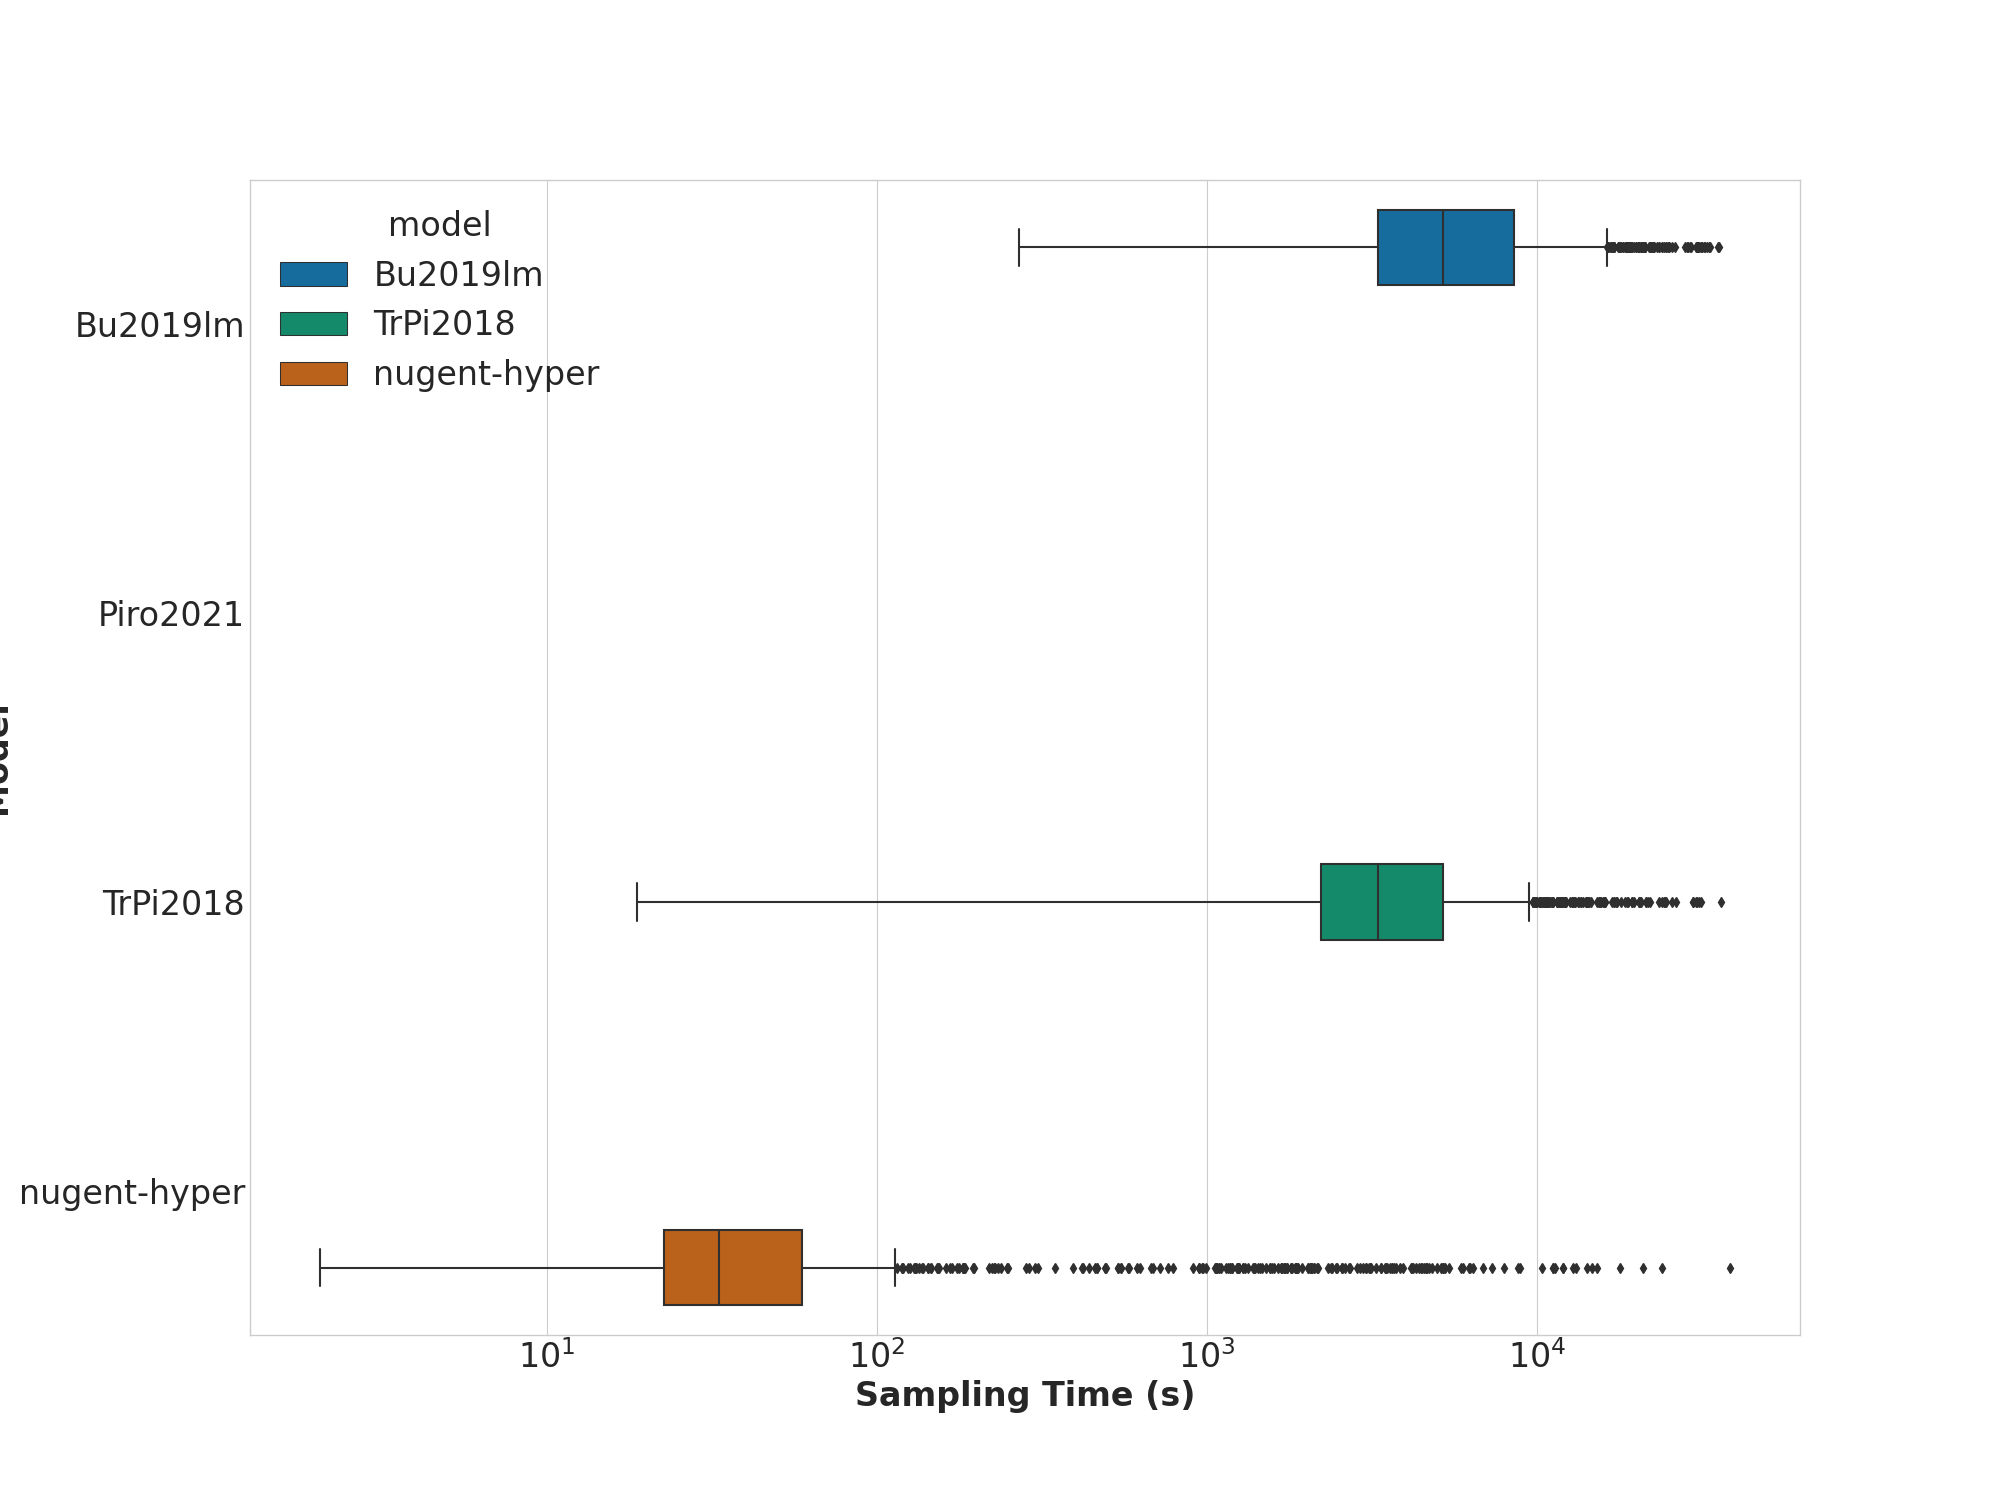
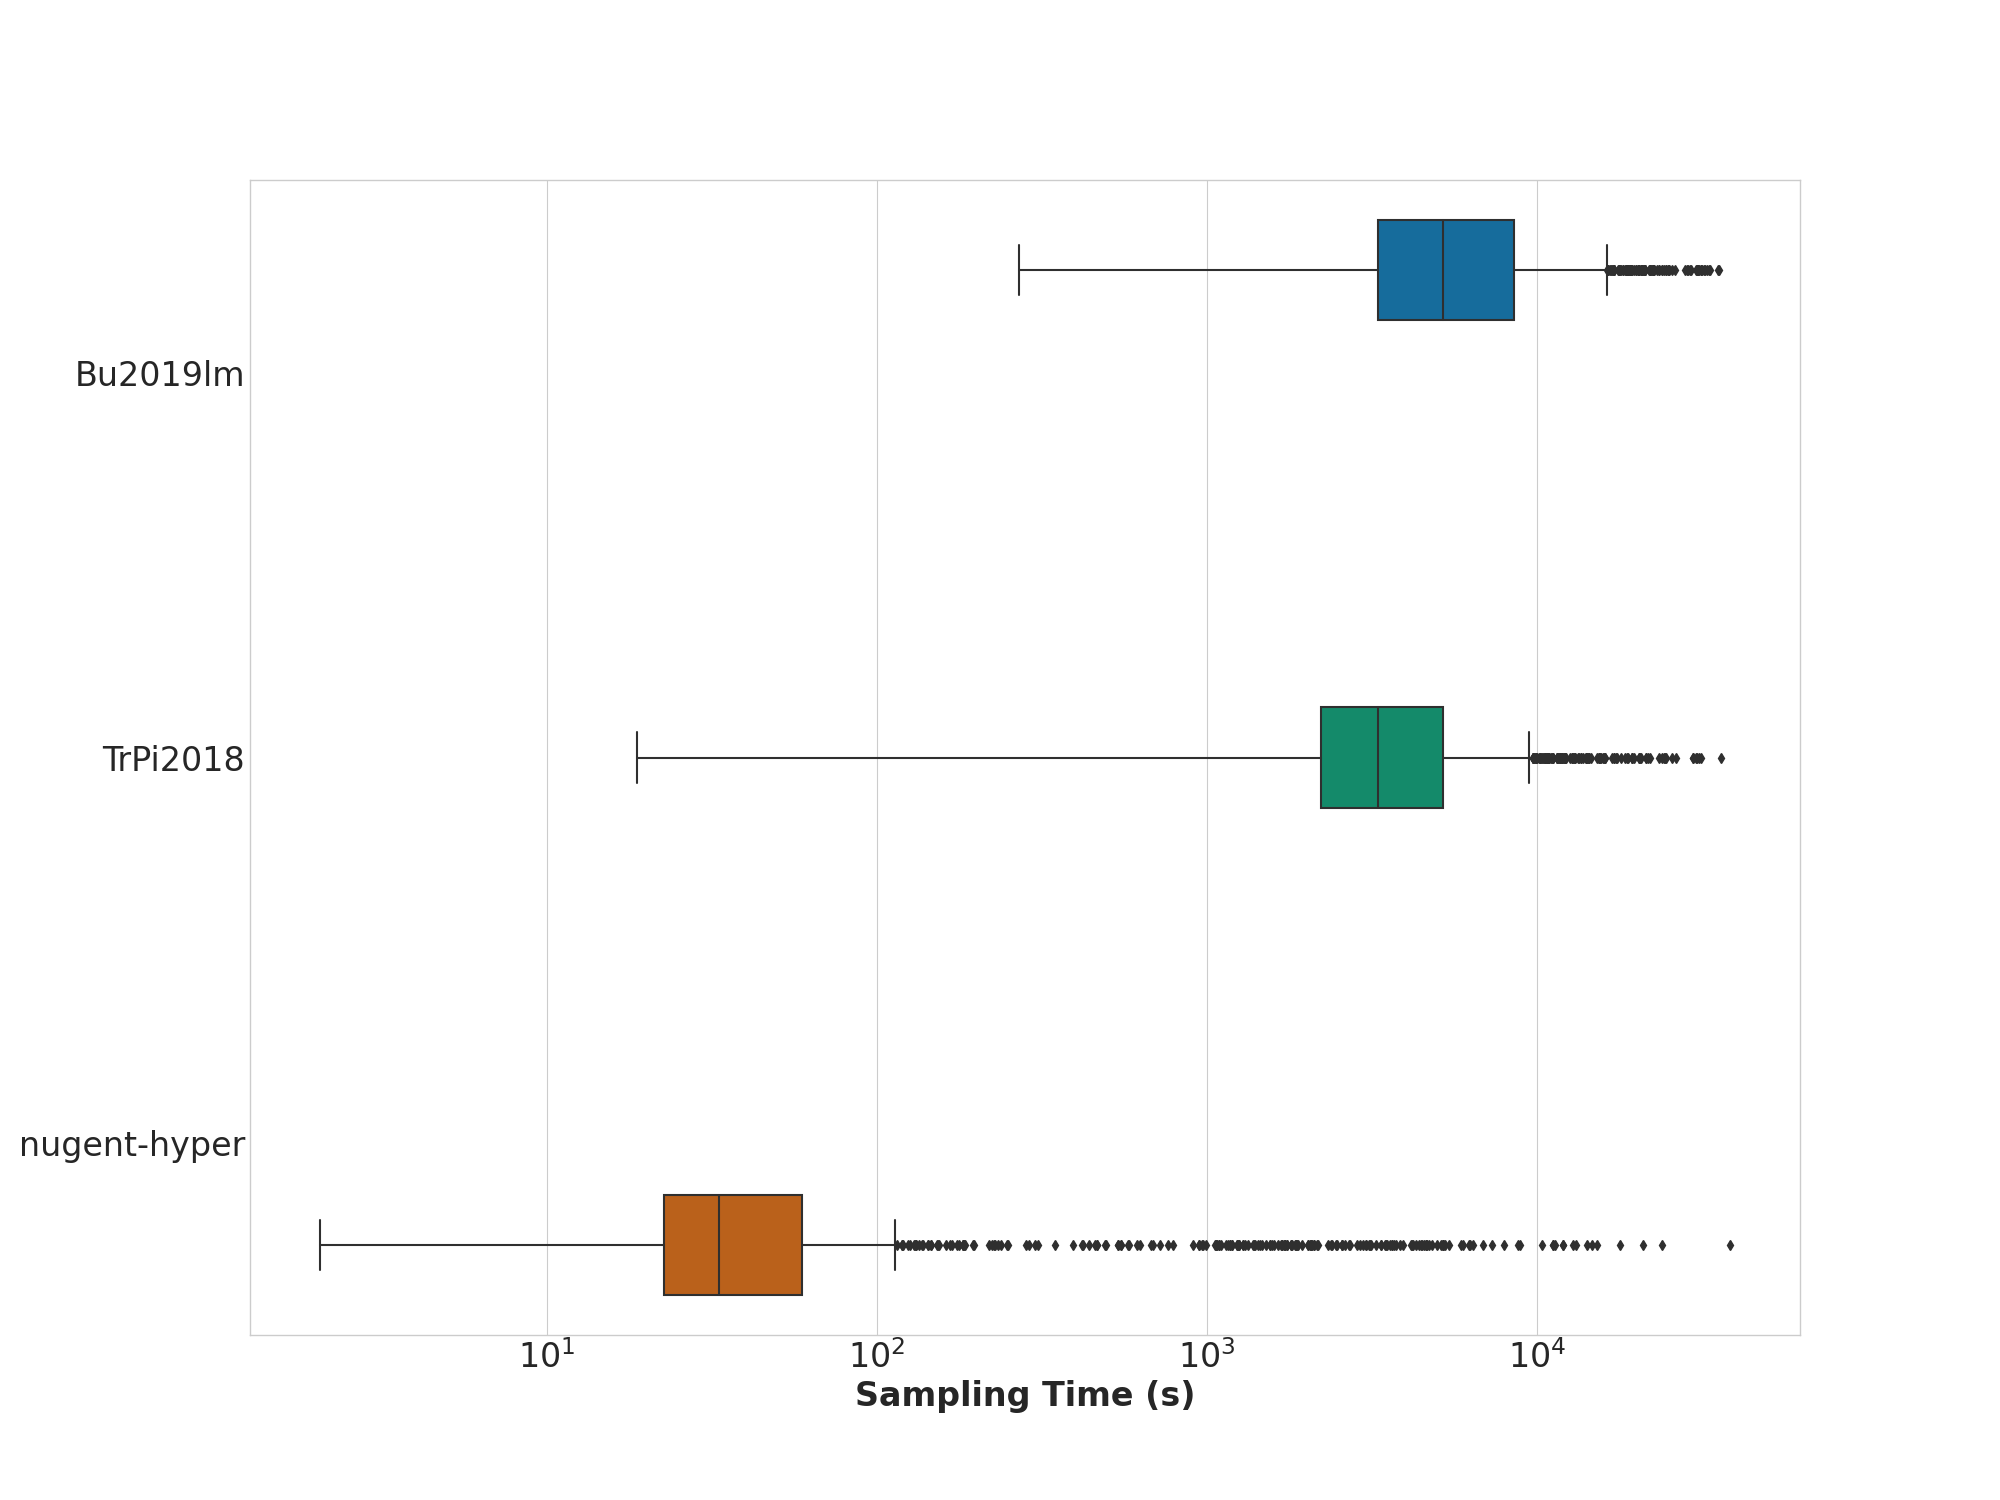
removed Piro from all plots+consistent hues
removed Piro2021 from relevant plots and also adjusted the hues to all be in the same order. Also removed axis label on y axis and legends of box and violin plots since they're fairly redundant with the y labels themselves

diff --git a/stats.py b/stats.py
@@ -328,6 +328,7 @@ def plotCands(df, save=True, outdir=args.outdir, ext='.png'):
     save: boolean to determine whether to save the plot or not
     '''
     startTime = time.time()
+    print('starting candidate plotting') if args.verbose else None
     ## create subdirectory for plots
     subdir = os.path.join(outdir,'candidates')
     if not os.path.exists(subdir):
@@ -341,7 +342,7 @@ def plotCands(df, save=True, outdir=args.outdir, ext='.png'):
     df_cd['numCand'] = [len(cand) for cand in df_cd['cand']]
     #print('df_cd: {}\n'.format(df_cd)) if args.verbose else None
     #[print(cand) for cand in df_cd['numCand']]
-    print('total number of candidates: {}'.format(df_cd['numCand'].sum())) if args.verbose else None
+    #print('total number of candidates: {}'.format(df_cd['numCand'].sum())) if args.verbose else None
     #print(df_cd)
     #df_cdc.to_csv('./df_cdaily.csv')
     ## unique candidates
@@ -349,9 +350,9 @@ def plotCands(df, save=True, outdir=args.outdir, ext='.png'):
     ## unique candidates grouped by day
     df_ud = df_u.groupby(['startDate','stopDate'],as_index=False).agg(tuple).applymap(lambda x: np.array(x))
     df_ud['numCand'] = [len(cand) for cand in df_ud['cand']]
-    print('total number of unique candidates: {}'.format(df_ud['numCand'].sum())) if args.verbose else None
+    #print('total number of unique candidates: {}'.format(df_ud['numCand'].sum())) if args.verbose else None
     
-    print('largest nuber of candidates in a single day: {}'.format(df_cd['numCand'].max())) if args.verbose else None
+    #print('largest nuber of candidates in a single day: {}'.format(df_cd['numCand'].max())) if args.verbose else None
     
     ## plot number of candidates per day
     fig, ax = plotstyle(figsize=(20,15), facecolor='white') 
@@ -362,7 +363,7 @@ def plotCands(df, save=True, outdir=args.outdir, ext='.png'):
     ax.set_xlabel("Date") 
     ax.set_ylabel('Candidates Per Day')
     plt.savefig(plotDir("numDailyCand",outdir=subdir,ext=ext)) if save else None
-    print('completed numDailyCand plot') if args.verbose else None
+    #print('completed numDailyCand plot') if args.verbose else None
     plt.close()
     
      
@@ -373,7 +374,7 @@ def plotCands(df, save=True, outdir=args.outdir, ext='.png'):
     ax.set_xlabel("Candidates Per Day")
     ax.set_ylabel('Count')
     plt.savefig(plotDir("numDailyCandHist",outdir=subdir,ext=ext)) if save else None
-    print('completed numDailyCandHist plot') if args.verbose else None
+    #print('completed numDailyCandHist plot') if args.verbose else None
     plt.close()
     
     #plot 7 day rolling average of candidates per day
@@ -385,7 +386,7 @@ def plotCands(df, save=True, outdir=args.outdir, ext='.png'):
     ax.set_xlabel("Date")
     ax.set_ylabel('Candidates Per Day\n(Rolling Average)') ## needs title
     plt.savefig(plotDir("numDailyCandRolling",outdir=subdir,ext=ext)) if save else None
-    print('completed numDailyCandRolling plot') if args.verbose else None
+    #print('completed numDailyCandRolling plot') if args.verbose else None
     plt.close()
     
     ## plot cumulative number of candidates per day
@@ -396,7 +397,7 @@ def plotCands(df, save=True, outdir=args.outdir, ext='.png'):
     ax.set_xlabel("Date")
     ax.set_ylabel('Candidate Count')
     plt.savefig(plotDir("cumDailyCand",outdir=subdir,ext=ext)) if save else None
-    print('completed cumDailyCand plot') if args.verbose else None
+    #print('completed cumDailyCand plot') if args.verbose else None
     plt.close()
     
     ## plot number of unique candidates
@@ -411,7 +412,7 @@ def plotCands(df, save=True, outdir=args.outdir, ext='.png'):
     ax.set_xlabel("Date")
     ax.set_ylabel('Candidate Count')
     plt.savefig(plotDir("uniqueDailyCand",outdir=subdir,ext=ext)) if save else None
-    print('completed uniqueDailyCand plot') if args.verbose else None
+    #print('completed uniqueDailyCand plot') if args.verbose else None
     plt.close()
     
     
@@ -432,6 +433,7 @@ def plotFits(df, models=args.models, save=True, outdir=args.outdir, ext='.png'):
     save: boolean to determine whether to save the figure or not
     '''
     startTime = time.time()
+    print('starting fit plotting') if args.verbose else None
     ## create subdirectory for plots
     subdir = os.path.join(outdir,'fits')
     if not os.path.exists(subdir):
@@ -480,7 +482,7 @@ def plotFits(df, models=args.models, save=True, outdir=args.outdir, ext='.png'):
         ax.set_title('{}'.format(model))
         ax.legend()
         plt.savefig(plotDir("cumDailyFits_"+model,outdir=subdir,ext=ext)) if save else None
-        print('completed cumDailyFits plot for {} \n'.format(model)) if args.verbose else None
+        #print('completed cumDailyFits plot for {} \n'.format(model)) if args.verbose else None
         plt.close()
     try: ## using a try here because this could totally break if the modelDict has different lengths for each model
         modelDict['Total'] = sum(map(np.array,modelDict.values())).tolist()
@@ -501,7 +503,7 @@ def plotFits(df, models=args.models, save=True, outdir=args.outdir, ext='.png'):
     plt.savefig(plotDir("cumDailyFitsAll",outdir=subdir,ext=ext)) if save else None ## need to make a version that adds a residual plot below to compare models
     ax.set_yscale('log')
     plt.savefig(plotDir("cumDailyFitsAllLog",outdir=subdir,ext=ext)) if save else None
-    print('completed cumDailyFitsAll plot\n') if args.verbose else None
+    #print('completed cumDailyFitsAll plot\n') if args.verbose else None
     plt.close()
     
     ## plot the relative performance of each model against the others
@@ -526,9 +528,9 @@ def plotFits(df, models=args.models, save=True, outdir=args.outdir, ext='.png'):
     ax.set_ylabel('Difference in Fit Count')
     ax.legend()
     plt.savefig(plotDir("cumDailyFitsRelPerf",outdir=subdir,ext=ext)) if save else None
-    print('completed cumDailyFitsRelPerf plot\n') if args.verbose else None
+    #print('completed cumDailyFitsRelPerf plot\n') if args.verbose else None
     plt.close()
-    print('completed cumDailyFits plot for all models \n') if args.verbose else None
+    #print('completed cumDailyFits plot for all models \n') if args.verbose else None
     
     print('completed fit plotting') if args.verbose else None
     print('time to plot candidate fits: {} seconds\n'.format(round(time.time()-startTime,2))) if args.verbose else None
@@ -544,6 +546,7 @@ def plotUnfit(df, models= args.models, save=True, outdir=args.outdir, ext='.png'
     save: boolean to determine whether to save the figure or not
     '''
     startTime = time.time()
+    print('starting unfit plotting') if args.verbose else None
     subdir = os.path.join(outdir,'unfit')
     if not os.path.exists(subdir):
         os.mkdir(subdir)
@@ -727,6 +730,7 @@ def plotSamplingTimes(df, models=args.models, save=True, outdir=args.outdir, ext
     save: boolean to determine whether to save the figure or not
     '''
     startTime = time.time()
+    print('plotting sampling times') if args.verbose else None
     ## create subdirectory for plots
     subdir = os.path.join(outdir,'samplingTimes')
     if not os.path.exists(subdir):
@@ -885,6 +889,7 @@ def plotSamplingTimes(df, models=args.models, save=True, outdir=args.outdir, ext
     plot = sns.ecdfplot(data=df_f, x='sampling_time_total', hue='model', hue_order=models,
                         legend='full',linewidth=4, ax=ax)
     ax.set_xlabel("Sampling Time (s)")
+    
     plt.savefig(plotDir("samplingTimeDistModel",outdir=subdir,ext=ext)) if save else None
     ax.set_xscale('log')
     plt.savefig(plotDir("samplingTimeDistModelLog",outdir=subdir,ext=ext)) if save else None
@@ -896,8 +901,8 @@ def plotSamplingTimes(df, models=args.models, save=True, outdir=args.outdir, ext
                           legend=True, cut=0,
                           ax=ax)
     ax.set_xlabel("Sampling Time (s)")
-    ax.set_ylabel('Model')
-    
+    ax.set_ylabel('')
+    ax.legend([],[], frameon=False)
     #ax.legend()
     #ax.set_xlim(right=35000)## presumes a certain max sampling time
     #ax.set_ylim(bottom=-500)
@@ -913,8 +918,9 @@ def plotSamplingTimes(df, models=args.models, save=True, outdir=args.outdir, ext
                           hue='model', 
                           ax=ax)
     ax.set_xlabel("Sampling Time (s)")
-    ax.set_ylabel('Model')
-    
+    #ax.set_ylabel('Model')
+    ax.set_ylabel('')
+    ax.legend([],[], frameon=False)
     #ax.legend()
     #ax.set_xlim(right=35000)## presumes a certain max sampling time
     #ax.set_ylim(bottom=-500)
@@ -938,6 +944,7 @@ def plotLikelihood(df, models=args.models, save=True, outdir=args.outdir, ext='.
     save: boolean to determine whether to save the figure or not
     '''
     startTime = time.time()
+    print('plotting likelihoods') if args.verbose else None
     ## create subdirectory for plots
     subdir = os.path.join(outdir,'likelihood')
     if not os.path.exists(subdir):
@@ -1119,15 +1126,16 @@ def plotLikelihood(df, models=args.models, save=True, outdir=args.outdir, ext='.
     fig, ax = plotstyle(figsize=(20,15), facecolor='white')
     plot = sns.violinplot(data=df, x='log_bayes_factor',y='model',
                           hue='model', split=False,
-                          legend=False, cut=0,
+                          cut=0,
                           ax=ax)
     ax.set_xlabel("Log Bayes Factor")
-    ax.set_ylabel('Model')
-    
+    #ax.set_ylabel('Model')
+    ax.set_ylabel('')
     #ax.legend()
     #ax.set_xlim(right=35000)## presumes a certain max sampling time
     #ax.set_ylim(bottom=-500)
     #sns.move_legend(plot, 'lower right')
+    ax.legend([],[], frameon=False) ## to remove legend (somewhat unecessary for this plot)
     plt.savefig(plotDir("BayesViolin",outdir=subdir,ext=ext)) if save else None
     ax.set_xscale('symlog')
     ax.set_xlim(right=1)
@@ -1137,15 +1145,16 @@ def plotLikelihood(df, models=args.models, save=True, outdir=args.outdir, ext='.
     ## box plot of sampling times for different models
     fig, ax = plotstyle(figsize=(20,15), facecolor='white')
     plot = sns.boxplot(data=df, x='log_bayes_factor',y='model', 
-                          hue='model', hue_order=models,
+                          hue='model', hue_order=models, 
                           ax=ax)
     ax.set_xlabel("Log Bayes Factor")
-    ax.set_ylabel('Model')
-    
+    #ax.set_ylabel('Model')
+    ax.set_ylabel('')
     #ax.legend()
     #ax.set_xlim(right=35000)## presumes a certain max sampling time
     #ax.set_ylim(bottom=-500)
     #sns.move_legend(plot, 'lower right')
+    ax.legend([],[], frameon=False)
     plt.savefig(plotDir("BayesBox",outdir=subdir,ext=ext)) if save else None
     ax.set_xscale('symlog')
     ax.set_xlim(right=1)
@@ -1296,18 +1305,18 @@ for model in args.models:
 
 ## running functions to plot results
 
-df = get_dataframe(candDir=args.candDir, models=args.models, save=False, file=args.datafile)
+#df = get_dataframe(candDir=args.candDir, models=args.models, save=False, file=args.datafile)
 # plotCands(df=df,save=True)
-# print('completed daily candidate plots (1)\n') if args.verbose else None
+#print('completed daily candidate plots (1)\n') if args.verbose else None
 
-# plotFits(df=df)
-# print('completed cumulative fit plot (2)\n') if args.verbose else None
+# plotFits(df=df, save=True)
+#print('completed cumulative fit plot (2)\n') if args.verbose else None
 
-# plotUnfit(df=df)
-# print('completed unfit candidate plot (3)\n') if args.verbose else None
+# plotUnfit(df=df, save=True)
+#print('completed unfit candidate plot (3)\n') if args.verbose else None
 
-plotSamplingTimes(df=df)
-print('completed sampling time plot (4)\n') if args.verbose else None
+plotSamplingTimes(df=df, save=True)
+#print('completed sampling time plot (4)\n') if args.verbose else None
 
-plotLikelihood(df=df)
-print('completed evidence plot (5)\n') if args.verbose else None
+# plotLikelihood(df=df, save=True)
+#print('completed evidence plot (5)\n') if args.verbose else None
